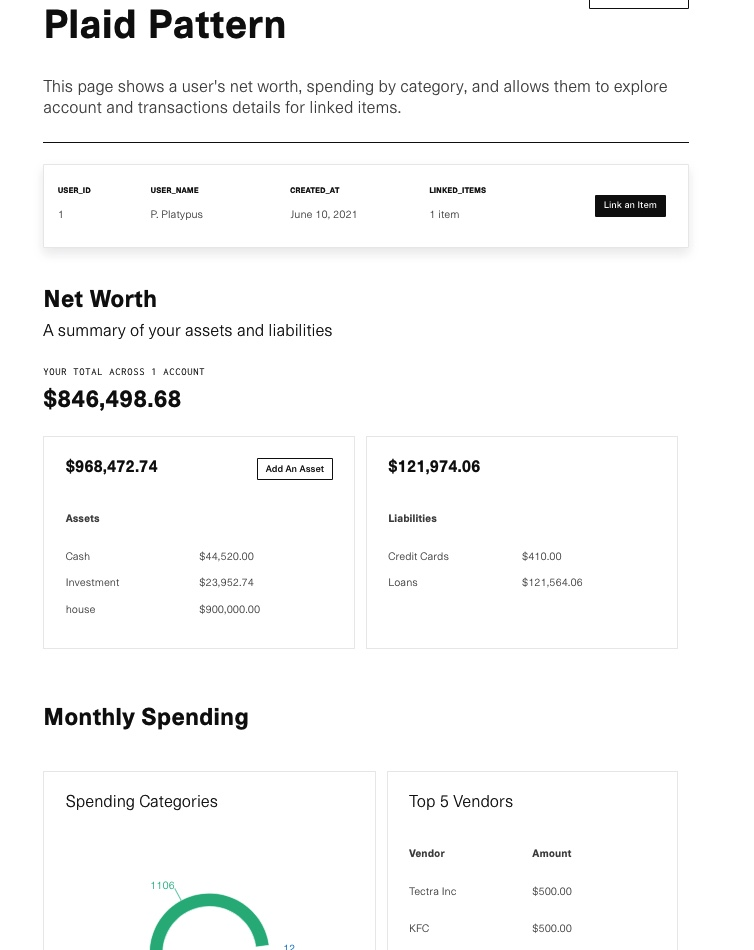
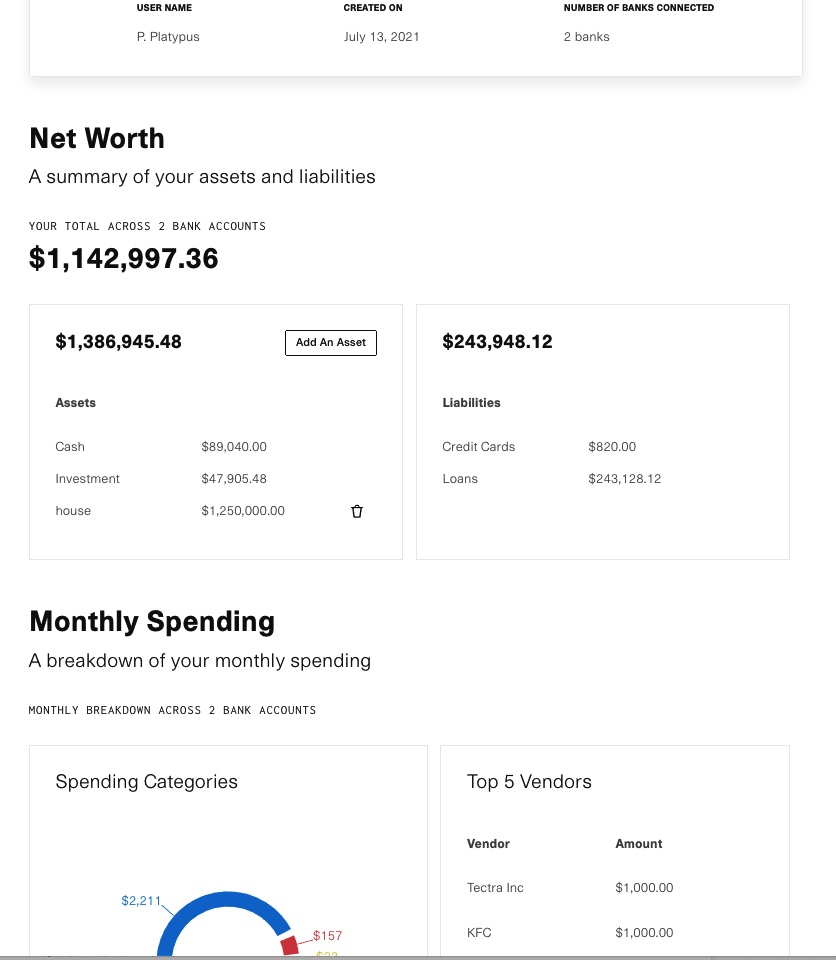
combine into one readme (#108)
* combine into one readme

* add client link

* redo links

* new screenshot

* remove readmes

* restore >DS_Store

* original ds_STore

* given below language

* update photo

diff --git a/README.md b/README.md
@@ -50,14 +50,144 @@ All available commands can be seen by calling `make help`.
 
 As a modern full-stack application, Pattern consists of multiple services handling different segments of the stack:
 
--   [`database`][database-readme] runs a [PostgreSQL][postgres] database
--   [`server`][server-readme] runs an application back-end server using [NodeJS] and [Express]
 -   [`client`][client-readme] runs a [React]-based single-page web frontend
+-   [`server`][server-readme] runs an application back-end server using [NodeJS] and [Express]
+-   [`database`][database-readme] runs a [PostgreSQL][postgres] database
 -   [`ngrok`][ngrok-readme] exposes a [ngrok] tunnel from your local machine to the Internet to receive webhooks
 
 We use [Docker Compose][docker-compose] to orchestrate these services. As such, each individual service has its own Dockerfile, which Docker Compose reads when bringing up the services.
 
-For more information about the individual services, see their readmes, linked in the list above.
+More information about the individual services is given below.
+
+# Plaid Pattern - Client
+
+The Pattern web client is written in JavaScript using [React]. It presents a basic [Link][plaid-link] workflow to the user, including an implementation of [OAuth][plaid-oauth] as well as a demonstration of [Link update mode][plaid-link-update-mode]. The sample app presents a user's net worth, categorized spending as well as a simple dashboard displaying linked accounts and transactions. The app runs on port 3000 by default, although you can modify this in [docker-compose.yml](../docker-compose.yml).
+
+## Key concepts
+
+### Communicating with the server
+
+Aside from websocket listeners (see below), all HTTP calls to the Pattern server are defined in `src/services/api.js`.
+
+### Webhooks and Websockets
+
+The Pattern server is configured to send a message over a websocket whenever it receives a webhook from Plaid. On the client side have websocket listeners defined in `src/components/Sockets.jsx` that wait for these messages and update data in real time accordingly.
+
+# Plaid Pattern - Server
+
+The application server is written in JavaScript using [Node.js][nodejs] and [Express][expressjs]. It interacts with the Plaid API via the [Plaid Node SDK][plaid-node], and with the [database][database-readme] using [`node-postgres`][node-pg]. While we've used Node for the reference implementation, the concepts shown here will apply no matter what language your backend is written in.
+
+## Key Concepts
+
+### Associating users with Plaid items and access tokens
+
+Plaid does not have a user data object for tying multiple items together, so it is up to application developers to define that relationship. For an example of this, see the [root items route][items-routes] (used to store new items) and the [users routes][users-routes].
+
+### Preventing item duplication
+
+By default, Plaid Link will let a user link to the same institution multiple times. Some developers prefer disallowing duplicate account linkages because duplicate connections still come at an additional cost. It is entirely possible for a user to create multiple items linked to the same financial institution. In practice, you probably want to prevent this. The easiest way to do this is to check the institution id of a newly created item before performing the token exchange and storing the item. For an example of this, see the [root items route][items-routes].
+
+### Using webhooks to update transaction data and test update mode in Link.
+
+Plaid uses [webhooks][transactions-webhooks] to notify you whenever there are new transactions associated with an item. This allows you to make a call to Plaid's transactions endpoint only when there are new transactions available, rather than polling for them. For an example of this, see the [transactions webhook handler][transactions-handler]. This sample app also demonstrates the use of the sandboxItemResetLogin endpoint to test the webhook used to notify you when a user needs to update their login information at their financial institution.
+
+For webhooks to work, the server must be publicly accessible on the internet. For development purposes, this application uses [ngrok][ngrok-readme] to accomplish that. Therefore, if the server is re-started, any items created in this sample app previous to the current session will have a different webhook address attached to it. As a result, webhooks are only valid during the session in which an item is created; for previously created items, no transactions webhooks will be received, and no webhook will be received from the call to sandboxItemResetLogin.
+
+### Updating transactions to remove pending transactions that have posted or cancelled
+
+Upon receipt of a transactions webhook a call will be made to Plaid's transactions endpoint. Incoming transactions are compared to existing transactions. Any existing transactions that are not included in incoming transactions will be removed and any new transactions are added to the database. For an example, see the [handleTransactionsUpdate][transactions-handler] function.
+
+### Testing OAuth
+
+A redirect_uri parameter is included in the linkTokenCreate call and set in this sample app to the PLAID_SANDBOX_REDIRECT_URI you have set in the .env file (`http://localhost:3001/oauth-link`). This is the page that the user will be redirected to upon completion of the OAuth flow at their OAuth institution. When running in Production or Development, you will need to use an `https://` redirect URI, but a localhost http URI will work for Sandbox.
+
+You will also need to configure `http://localhost:3001/oauth-link` as an allowed redirect URI for your client ID through the [Plaid developer dashboard](https://dashboard.plaid.com/team/api).
+
+To test the OAuth flow, choose 'Playtypus OAuth Bank' from the list of financial instutions in Plaid Link.
+
+## Debugging
+
+The node debugging port (9229) is exposed locally on port 9229.
+
+If you are using Visual Studio Code as your editor, you can use the `Docker: Attach to Server` launch configuration to interactively debug the server while it's running. See the [VS Code docs][vscode-debugging] for more information.
+
+# Plaid Pattern - Database
+
+The database is a [PostgreSQL][postgres] instance running inside a Docker container.
+
+Port 5432 is exposed to the Docker host, so you can connect to the DB using the tool of your choice.
+Username and password can be found in [docker-compose.yml][docker-compose].
+
+## Key Concepts
+
+### Plaid API & Link Identifiers
+
+API and Link Identifiers are crucial for maintaining a scalable and stable integration.
+Occasionally, an Institution error may occur due to a bank issue, or a live product pull may fail on request.
+To resolve these types of issues, Plaid Identifiers are required to [open a Support ticket in the Dashboard][plaid-new-support-ticket].
+
+`access_tokens` and `item_ids` are the core identifiers that map end-users to their financial institutions.
+As such, we are storing them in the database associated with our application users.
+**These identifiers should never be exposed client-side.**
+
+Plaid returns a unique `request_id` in all server-side responses and Link callbacks.
+A `link_session_id` is also returned in Link callbacks.
+These values can be used for identifying the specific network request or Link session for a user, and associating that request or session with other events in your application.
+We store these identifiers in database tables used for logging Plaid API requests, as they can be useful for troubleshooting.
+
+For more information, see the docs page on [storing Plaid API identifiers][plaid-docs-api-identifiers].
+
+## Tables
+
+The `*.sql` scripts in the `init` directory are used to initialize the database if the data directory is empty (i.e. on first run, after manually clearing the db by running `make clear-db`, or after modifying the scripts in the `init` directory).
+
+See the [create.sql][create-script] initialization script to see some brief notes for and the schemas of the tables used in this application.
+While most of them are fairly self-explanitory, we've added some additional notes for some of the tables below.
+
+### link_events_table
+
+This table stores responses from the Plaid API for client requests to the Plaid Link client.
+
+User flows that this table captures (based on the client implementation, which hooks into the `onExit` and `onSuccess` Link callbacks):
+
+-   User opens Link, closes without trying to connect an account.
+    This will have type `exit` but no request_id, error_type, or error_code.
+-   User tries to connect an account, fails, and closes link.
+    This will have type `exit` and will have a request_id, error_type, and error_code.
+-   User successfully connects an account.
+    This will have type `success` but no request_id, error_type, or error_code.
+
+### plaid_api_events_table
+
+This table stores responses from the Plaid API for server requests to the Plaid client.
+The server stores the responses for all of the requests it makes to the Plaid API.
+Where applicable, it also maps the response to an item and user.
+If the request returned an error, the error_type and error_code columns will be populated.
+
+## Learn More
+
+-   [PostgreSQL documentation][postgres-docs]
+
+# Plaid Pattern - ngrok
+
+This demo includes [ngrok](https://ngrok.com/), a utility that creates a secure tunnel between your local machine and the outside world. We're using it here to expose the local webhooks endpoint to the internet.
+
+Browse to [localhost:4040](http://localhost:4040/inspect/http) to see the ngrok dashboard. This will show any traffic that gets routed through the ngrok URL.
+
+**Do NOT use ngrok in production!** It's only included here as a convenience for local development and is not meant to be a production-quality solution.
+
+Don’t want to use ngrok? As long as you serve the app with an endpoint that is publicly exposed, all the Plaid webhooks will work.
+
+ngrok's free account has a session limit of 8 hours. To fully test out some of the transaction webhook workflows, you will need to get a more persistent endpoint as noted above when using the development environment.
+
+## Source
+
+This image is a copy of the Docker Hub image [wernight/ngrok](https://hub.docker.com/r/wernight/ngrok/dockerfile). We've copied it here to allow us to more closely version it and to make changes as needed.
+
+## Learn More
+
+-   https://hub.docker.com/r/wernight/ngrok/dockerfile
+-   https://github.com/wernight/docker-ngrok/tree/202c4692cbf1bbfd5059b6ac56bece42e90bfb82
 
 ## Troubleshooting
 
@@ -74,14 +204,34 @@ See [`docs/troubleshooting.md`][troubleshooting].
 
 [MIT](LICENSE)
 
+[create-script]: init/create.sql
+[docker-compose]: ../docker-compose.yml
+[plaid-docs-api-identifiers]: https://plaid.com/docs/#storing-plaid-api-identifiers
+[plaid-new-support-ticket]: https://dashboard.plaid.com/support/new
+[postgres]: https://www.postgresql.org/
+[postgres-docs]: https://www.postgresql.org/docs/
+[cra]: https://github.com/facebook/create-react-app
+[plaid-link]: https://plaid.com/docs/#integrating-with-link
+[plaid-oauth]: https://plaid.com/docs/link/oauth/#introduction-to-oauth
+[plaid-link-update-mode]: https://plaid.com/docs/link/update-mode/
+[react]: https://reactjs.org/
+[database-readme]: #plaid-pattern---database
+[expressjs]: http://expressjs.com/
+[items-routes]: routes/items.js
+[ngrok-readme]: #plaid-pattern---ngrok
+[node-pg]: https://github.com/brianc/node-postgres
+[nodejs]: https://nodejs.org/en/
+[plaid-node]: https://github.com/plaid/plaid-node
+[transactions-handler]: webhookHandlers/handleTransactionsWebhook.js
+[transactions-webhooks]: https://plaid.com/docs/#transactions-webhooks
+[users-routes]: routes/users.js
+[vscode-debugging]: https://code.visualstudio.com/docs/editor/debugging
 [client-img]: docs/pattern_screenshot.jpg
-[client-readme]: client/README.md
-[database-readme]: database/README.md
+[client-readme]: #plaid-pattern---client
 [docker]: https://docs.docker.com/
 [docker-compose]: https://docs.docker.com/compose/
 [express]: https://expressjs.com/
 [ngrok]: https://ngrok.com/
-[ngrok-readme]: ngrok/README.md
 [nodejs]: https://nodejs.org/en/
 [plaid]: https://plaid.com
 [plaid-docs]: https://plaid.com/docs/
@@ -93,6 +243,6 @@ See [`docs/troubleshooting.md`][troubleshooting].
 [plaid-redirect-uri]: https://plaid.com/docs/link/oauth/#redirect-uri-configuration
 [postgres]: https://www.postgresql.org/
 [react]: http://reactjs.org/
-[server-readme]: server/README.md
+[server-readme]: #plaid-pattern---server
 [troubleshooting]: docs/troubleshooting.md
 [wsl]: https://nickjanetakis.com/blog/setting-up-docker-for-windows-and-wsl-to-work-flawlessly
